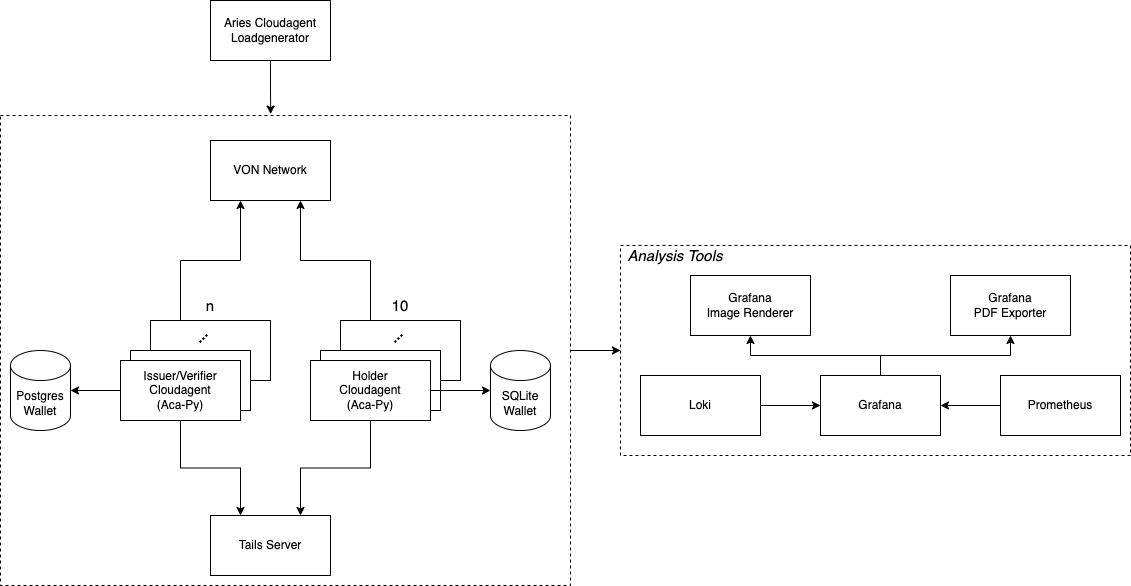
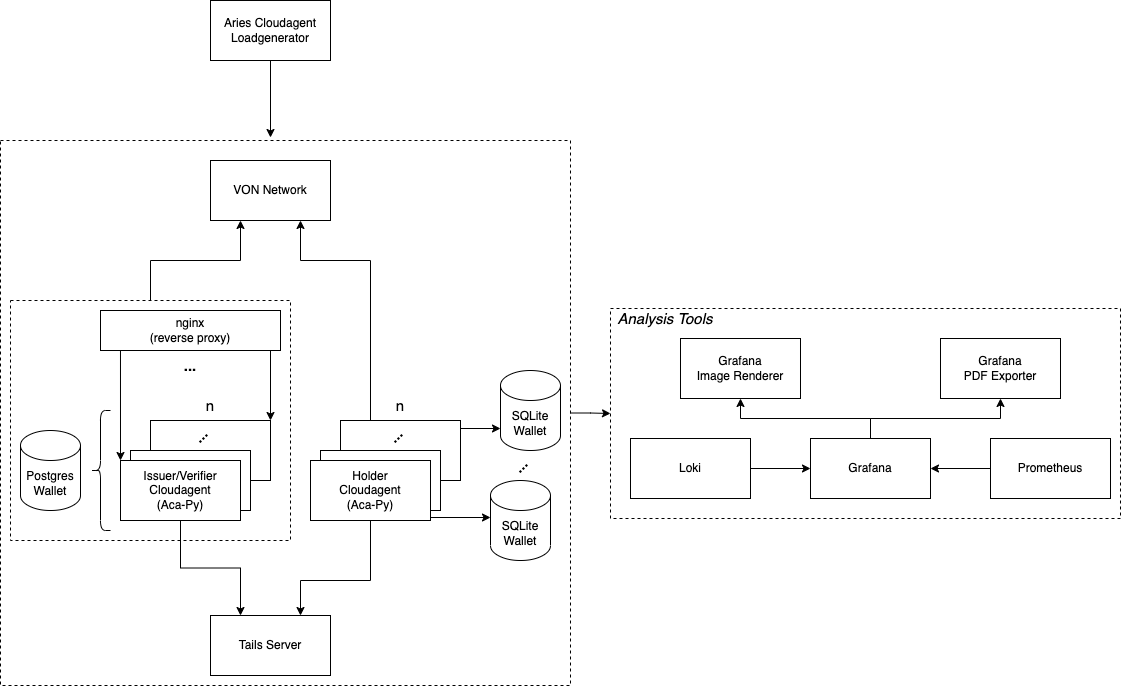
docs: added nginx and small cleanups

diff --git a/README.md b/README.md
@@ -2,13 +2,14 @@
 
 A simple load generator to test the performance of the ACA-PY agent.
 
-## Startup a Test Environment
+## Quick setup
 ![Loadgenerator architecture](architecture.png)
 
 This repository comes with an automated testing setup consisting of:
 
-- n Issuer/Verifier [ACA-Py](https://github.com/hyperledger/aries-cloudagent-python) instance(s) depending on the [configuration](#configuration) (+ Postgres Wallet DB)
-- 10 Holder [ACA-Py](https://github.com/hyperledger/aries-cloudagent-python) instances (+ SQLite Wallet DB)
+- n Issuer/Verifier [ACA-Py](https://github.com/hyperledger/aries-cloudagent-python) instance(s) depending on the [configuration](#configuration) (+ 1 shared Postgres Wallet DB)
+- nginx as reverse proxy for the Issuer/Verifier instances
+- n Holder [ACA-Py](https://github.com/hyperledger/aries-cloudagent-python) instance(s) (+ SQLite Wallet DB for each one)
 - [Tails Server](https://github.com/bcgov/indy-tails-server/) to support revocation
 - [VON-Network](https://github.com/bcgov/von-network) for a local deployment of an indy ledger
 - Analysis Tools ([see below](#analysis-tools))
@@ -33,13 +34,6 @@ To start the environment run:
 
 This will start all necessary components as well as registering a DID from the given seed in the `.env` file. The Load Generator itself is also included as a Docker container using this command.
 
-If you just want to start the surrounding environment and [startup the Load generator locally](#startup-the-load-generator), run:
-
-
-```
-./setup/manage.sh startwithoutloadgenerator
-```
-
 To restart the environment, run:
 
 ```
@@ -57,11 +51,66 @@ If you also want to delete all data and remove all containers, run:
 ```
 ./setup/manage.sh down
 ```
-### Open the SwaggerUI
 
-An automatically generated SwaggerUI is available after startup under http://localhost:8080/swagger-ui.html
+## Analyze the Test Results
 
-## Startup the Load Generator
+This project includes a setup for analyzing and visualizing the test results. The whole analysis setup is started
+automatically when starting the test environment.
+
+### Analysis Tools
+
+- **Grafana:** is used to visualize the collected data on a dashboard
+- **Grafane Image Renderer:** used to render Grafana graphs as images to export them to a PDF (uses
+  the [Image Renderer Plugin](https://grafana.com/grafana/plugins/grafana-image-renderer/))
+- **Grafana PDF Exporter:** used to export a Grafana dashboard as a PDF (
+  uses [IzakMarais/reporter](https://github.com/IzakMarais/reporter))
+- **Grafana Loki:** is used to collect logs from services like the Load Generator
+- **Prometheus:** is used to collect metrics from services like cAdvisor, node-exporter
+
+### Install node-exporter for collecting host metrics
+Prometheus *Node Exporter* exposes a wide variety of hardware- and kernel-related metrics.
+Follow the installation guide to install `node-exporter` as a native application: [Prometheus Node Exporter](https://prometheus.io/docs/guides/node-exporter/)
+
+You may consider running `node-exporter` on system startup, by adding it to `sudo crontab -e`
+```
+@reboot [INSTALLATION-DIR]/node_exporter > /dev/null 2>&1
+```
+
+### View Test Results in Grafana
+
+Grafana runs on http://localhost:3000. It comes preconfigured with dashboards to visualize the test results from the
+load tests. You can for example open http://localhost:3000/d/0Pe9llbnz/test-results to the test results.
+
+To see any data on the dashboard, ensure to select the right time range in Grafana for which data has been collected.
+
+### Export Grafana Dashboard as PDF
+
+Using [IzakMarais/reporter](https://github.com/IzakMarais/reporter) it is possible to export a dashboard as a PDF. For
+this a link exists in the top right corner of the dashboards. The PDF generation can take multiple minutes depending on
+the Dashboard complexity. Check the logs of the `grafana-pdf-exporter` container in case you want to see the progress of
+the PDF generation.
+
+### Grafana Configuration
+
+The data sources, as well as dashboards, are provisioned automatically when running the Grafana container.
+
+Data sources are configured manually
+in [./setup/grafana/grafana-provisioning/datasources/](./setup/grafana/grafana-provisioning/datasources/) using YAML
+files. Dashboards are configured in [./setup/grafana/dashboards](./setup/grafana/dashboards) using JSON files.
+Dashboards can be created via the Grafana Web UI and exported as JSON afterwards.
+
+
+## Development Setup
+
+### Environment startup
+
+To start the environment without the Load Generator container, run:
+
+
+```
+./setup/manage.sh startwithoutloadgenerator
+```
+To configure the environment, follow the steps as [listed above](#configuration).
 
 ### Configuration
 
@@ -151,52 +200,3 @@ docker build -t loadgenerator .
 ```sh
 docker run --rm -p 8080:8080 loadgenerator
 ```
-
-## Analyse the Test Results
-
-This project includes a setup for analysing and visualizing the test results. The whole analysis setup is started
-automatically when starting the test environment.
-
-### Analysis Tools
-
-- **Grafana:** is used to visualize the collected data on a dashboard
-- **Grafane Image Renderer:** used to render Grafana graphs as images to export them to a PDF (uses
-  the [Image Renderer Plugin](https://grafana.com/grafana/plugins/grafana-image-renderer/))
-- **Grafana PDF Exporter:** used to export a Grafana dashboard as a PDF (
-  uses [IzakMarais/reporter](https://github.com/IzakMarais/reporter))
-- **Grafana Loki:** is used to collect logs from services like the Load Generator
-- **Prometheus:** is used to collect metrics from services like cAdvisor, node-exporter
-
-### Install node-exporter for collecting host metrics
-Prometheus *Node Exporter* exposes a wide variety of hardware- and kernel-related metrics.
-Follow the installation guide to install `node-exporter` as a native application: [Prometheus Node Exporter](https://prometheus.io/docs/guides/node-exporter/)
-
-You may consider running `node-exporter` on system startup, by adding it to `sudo crontab -e`
-```
-@reboot [INSTALLATION-DIR]/node_exporter > /dev/null 2>&1
-```
-
-### View Test Results in Grafana
-
-Grafana runs on http://localhost:3000. It comes preconfigured with dashboards to visualize the test results from the
-load tests. You can for example open http://localhost:3000/d/0Pe9llbnz/test-results to the test results.
-
-To see any data on the dashboard, ensure to select the right time range in Grafana for which data has been collected.
-
-### Export Grafana Dashboard as PDF
-
-Using [IzakMarais/reporter](https://github.com/IzakMarais/reporter) it is possible to export a dashboard as a PDF. For
-this a link exists in the top right corner of the dashboards. The PDF generation can take multiple minutes depending on
-the Dashboard complexity. Check the logs of the `grafana-pdf-exporter` container in case you want to see the progress of
-the PDF generation.
-
-### Grafana Configuration
-
-The data sources, as well as dashboards, are provisioned automatically when running the Grafana container.
-
-Data sources are configured manually
-in [./setup/grafana/grafana-provisioning/datasources/](./setup/grafana/grafana-provisioning/datasources/) using YAML
-files. Dashboards are configured in [./setup/grafana/dashboards](./setup/grafana/dashboards) using JSON files.
-Dashboards can be created via the Grafana Web UI and exported as JSON afterwards.
-
-
